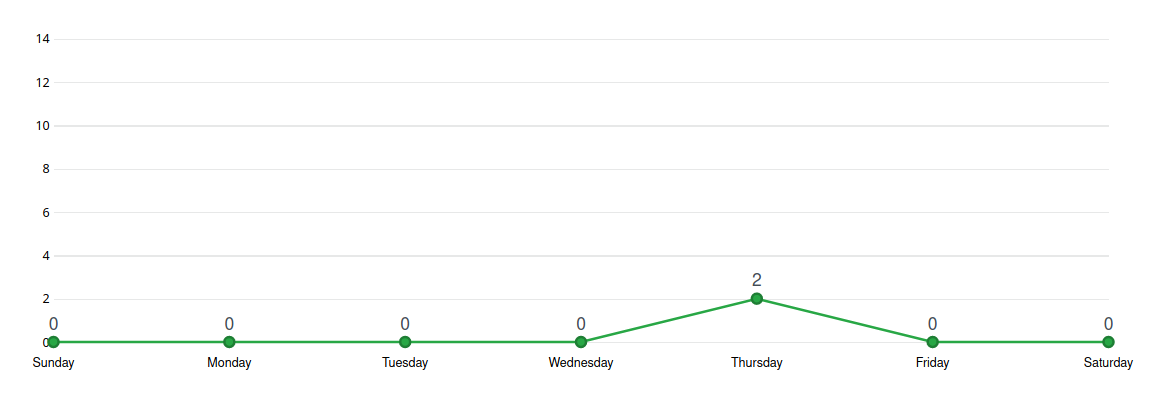
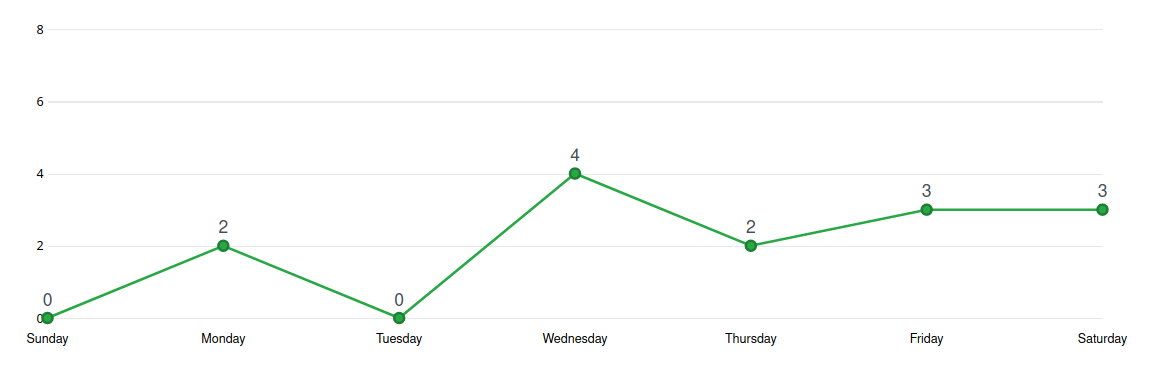
Fixed minor issues with sprint 6 docs.

diff --git a/docs/sprints/sprint-6/sprint6-risks.md b/docs/sprints/sprint-6/sprint6-risks.md
@@ -12,19 +12,19 @@ Os riscos estão ordenados por prioridade, que é resultado da multiplicação e
 **Consequência:** Dificuldade para reunir toda a equipe e realizar os pareamentos  
 **Ação Preventiva:** Elaboração de planilhas de controle de horários  
 **Ação Reativa:** Planejar os pareamentos e reuniões baseado na planilha de horários  
-**Probabilidade:** Média      
+**Probabilidade:** Alta        
 **Impacto:** Alto    
 **Prioridade:** Alta - 16  
 
-### R12 - Conflito de dependência entre atividades
-**Categoria:** Organizacional   
-**Causa:** Escopo razoavelmente complexo do projeto    
-**Consequência:** Atividade pausada esperando a conclusão de outra        
-**Ação Preventiva:** Planejar e priorizar as tarefas a longo prazo  
-**Ação Reativa:** Finalizar uma das tarefas o mais rápido possível para que a outra possa ser realizada  
-**Probabilidade:** Alto           
-**Impacto:** Alto       
-**Prioridade:** Alta - 16  
+### R07 - Conflito com outras disciplinas
+**Categoria:** Organizacional  
+**Causa:** Necessidade, sendo alunos da UnB os membros da equipe precisam cursar outras disciplinas para conclusão da graduação  
+**Consequência:** Atraso nas entregas ou entregas mal feitas  
+**Ação Preventiva:** Organizar os prazos e fazer um planejamento  
+**Ação Reativa:** Priorização das atividades  
+**Probabilidade:** Muito Alta      
+**Impacto:** Médio     
+**Prioridade:** Média - 15
 
 ### R08 - Descumprimento de alguma legislação
 **Categoria:** Gerência  
@@ -32,9 +32,19 @@ Os riscos estão ordenados por prioridade, que é resultado da multiplicação e
 **Consequência:** Cometer alguma ilegalidade  
 **Ação Preventiva:**  Fazer um estudo da legislação associada ao escopo do projeto  
 **Ação Reativa:**  Procurar apoio jurídico profissional  
-**Probabilidade:** Média     
+**Probabilidade:** Média        
 **Impacto:** Muito Alto      
 **Prioridade:** Média - 15 
+
+### R02 - Dificuldades da equipe com as novas tecnologias inseridas
+**Categoria:** Técnico  
+**Causa:** Inexperiência de alguns membros  
+**Consequência:** Surgimento de dívidas técnicas pela dificuldade em realizar os objetivos propostos  
+**Ação Preventiva:** Realização de treinamentos efetivos nas tecnologias a serem utilizadas ao longo do semestre      
+**Ação Reativa:** Organizar pareamento para rotação do conhecimento    
+**Probabilidade:** Média      
+**Impacto:** Alto  
+**Prioridade:** Média - 12
 
 ### R03 - Falta de comprometimento dos membros com o projeto
 **Categoria:** Gerência  
@@ -52,19 +62,29 @@ Os riscos estão ordenados por prioridade, que é resultado da multiplicação e
 **Consequência:** Capacidade de trabalho da equipe prejudicada e atrasos no cronograma  
 **Ação Preventiva:** Seguir as recomendações de prevenção da Organização Mundial da Saúde  
 **Ação Reativa:** Remanejamento das atividades e apoio ao(s) membro(s) afetado(s)  
-**Probabilidade:** Média     
+**Probabilidade:** Média    
 **Impacto:** Alto    
-**Prioridade:** Média - 12   
+**Prioridade:** Média - 12  
 
-### R07 - Conflito com outras disciplinas
-**Categoria:** Organizacional  
-**Causa:** Necessidade, sendo alunos da UnB os membros da equipe precisam cursar outras disciplinas para conclusão da graduação  
-**Consequência:** Atraso nas entregas ou entregas mal feitas  
-**Ação Preventiva:** Organizar os prazos e fazer um planejamento  
-**Ação Reativa:** Priorização das atividades  
-**Probabilidade:** Alta      
-**Impacto:** Médio     
+### R05 - Erros durante o planejamento das atividades
+**Categoria:** Gerência  
+**Causa:** Falta de experiência da equipe de gerência  
+**Consequência:** Trabalho mal distribuído entre os membros da equipe  
+**Ação Preventiva:** Conhecer bem a capacidade da equipe e as necessidades do projeto   
+**Ação Reativa:**  Avaliar as métricas do projeto para regular os próximos planejamentos  
+**Probabilidade:** Média     
+**Impacto:** Alto      
 **Prioridade:** Média - 12
+
+### R17 - Problemas com a estação de trabalho 
+**Categoria:** Técnico  
+**Causa:** Falta de acesso a uma boa internet e/ou a um computador funcionando  
+**Consequência:** Capacidade de trabalho da equipe prejudicada e atrasos no cronograma  
+**Ação Preventiva:** -  
+**Ação Reativa:**  Remanejamento das atividades e revisão do cronograma  
+**Probabilidade:** Média        
+**Impacto:** Alto      
+**Prioridade:** Média - 12  
 
 ### R10 - Ausência de membros durante reuniões do grupo
 **Categoria:** Gerência   
@@ -76,15 +96,15 @@ Os riscos estão ordenados por prioridade, que é resultado da multiplicação e
 **Impacto:** Médio     
 **Prioridade:** Média - 12 
 
-### R15 - Dados deixarem de ser fornecidos pelas secretarias 
-**Categoria:** Externo  
-**Causa:** Decisões das secretarias  
-**Consequência:** Impossibilidade de atualização de uma funcionalidade importante do projeto  
-**Ação Preventiva:** -  
-**Ação Reativa:** Procurar outras fontes de dados ou deixar de fornecer a funcionalidade   
-**Probabilidade:** Baixa      
-**Impacto:** Muito Alto      
-**Prioridade:** Baixa - 10 
+### R12 - Conflito de dependência entre atividades 
+**Categoria:** Organizacional   
+**Causa:** Escopo razoavelmente complexo do projeto    
+**Consequência:** Atividade pausada esperando a conclusão de outra        
+**Ação Preventiva:** Planejar e priorizar as tarefas a longo prazo  
+**Ação Reativa:** Finalizar uma das tarefas o mais rápido possível para que a outra possa ser realizada  
+**Probabilidade:** Média             
+**Impacto:** Alto       
+**Prioridade:** Média - 12      
 
 ### R14 - Desistência da disciplina 
 **Categoria:** Gerência  
@@ -96,25 +116,25 @@ Os riscos estão ordenados por prioridade, que é resultado da multiplicação e
 **Impacto:** Muito Alto    
 **Prioridade:** Baixa - 10  
 
-### R05 - Erros durante o planejamento das atividades
-**Categoria:** Gerência  
-**Causa:** Falta de experiência da equipe de gerência  
-**Consequência:** Trabalho mal distribuído entre os membros da equipe  
-**Ação Preventiva:** Conhecer bem a capacidade da equipe e as necessidades do projeto   
-**Ação Reativa:**  Avaliar as métricas do projeto para regular os próximos planejamentos  
-**Probabilidade:** Média     
-**Impacto:** Médio        
-**Prioridade:** Baixa - 9
+### R15 - Dados deixarem de ser fornecidos pelas secretarias 
+**Categoria:** Externo  
+**Causa:** Decisões das secretarias  
+**Consequência:** Impossibilidade de atualização de uma funcionalidade importante do projeto  
+**Ação Preventiva:** -  
+**Ação Reativa:** Procurar outras fontes de dados ou deixar de fornecer a funcionalidade   
+**Probabilidade:** Baixa      
+**Impacto:** Muito Alto      
+**Prioridade:** Baixa - 10   
 
-### R06 - Falta de foco dos membros nas reuniões  
+### R06 - Falta de foco dos membros nas reuniões 
 **Categoria:** Gerência   
 **Causa:** Diversas distrações em um contexto de reuniões remotas e a falta de socialização em tempos de pandemia  
 **Consequência:** Reuniões longas e com poucos resultados       
 **Ação Preventiva:** Criar timebox para os tópicos da reunião e permanecer nos assuntos que são de interesse geral   
 **Ação Reativa:** Mudar a maneira como a reunião é conduzida de forma a deixá-la mais despojada sem perder o foco na produtividade  
-**Probabilidade:** Média           
+**Probabilidade:** Média          
 **Impacto:** Médio          
-**Prioridade:** Baixa - 9  
+**Prioridade:** Baixa - 9   
 
 ### R11 - Falta de direcionamento por não possuir cliente real
 **Categoria:** Externo   
@@ -122,29 +142,9 @@ Os riscos estão ordenados por prioridade, que é resultado da multiplicação e
 **Consequência:** Produto desenvolvido carece de realidade            
 **Ação Preventiva:** Ter uma ótima noção do produto antes de começar seu desenvolvimento    
 **Ação Reativa:** Repensar o produto e alinhar nova visão com a equipe    
-**Probabilidade:** Baixa           
+**Probabilidade:** Baixa            
 **Impacto:** Alto      
 **Prioridade:** Baixa - 8   
-
-### R02 - Dificuldades da equipe com as novas tecnologias inseridas
-**Categoria:** Técnico  
-**Causa:** Inexperiência de alguns membros  
-**Consequência:** Surgimento de dívidas técnicas pela dificuldade em realizar os objetivos propostos  
-**Ação Preventiva:** Realização de treinamentos efetivos nas tecnologias a serem utilizadas ao longo do semestre      
-**Ação Reativa:** Organizar pareamento para rotação do conhecimento    
-**Probabilidade:** Baixa     
-**Impacto:** Alto  
-**Prioridade:** Baixo - 8
-    
-### R13 - Falta de gratuidade do Google Maps
-**Categoria:** Externa  
-**Causa:** Políticas da Google  
-**Consequência:** Atraso nas funcionalidades que usam exibição de mapas  
-**Ação Preventiva:** Fazer essas funcionalidades de forma que sejam fáceis de integrar com outra api de mapa  
-**Ação Reativa:** Procurar outras alternativas gratuitas de uso de mapas  
-**Probabilidade:** Baixa    
-**Impacto:** Alto    
-**Prioridade:** Baixa - 8       
 
 ### R16 - Falta de interação entre a equipe 
 **Categoria:** Gerência  
@@ -154,19 +154,19 @@ Os riscos estão ordenados por prioridade, que é resultado da multiplicação e
 **Ação Reativa:** Chamar os membros pra alguma atividade divertida fora do contexto da disciplina  
 **Probabilidade:** Baixa                
 **Impacto:** Alto    
-**Prioridade:** Baixa - 8    
+**Prioridade:** Baixa - 8 
 
-### R17 - Problemas com a estação de trabalho
-**Categoria:** Técnico  
-**Causa:** Falta de acesso a uma boa internet e/ou a um computador funcionando  
-**Consequência:** Capacidade de trabalho da equipe prejudicada e atrasos no cronograma  
-**Ação Preventiva:** -  
-**Ação Reativa:**  Remanejamento das atividades e revisão do cronograma  
-**Probabilidade:** Baixa      
-**Impacto:** Alto      
-**Prioridade:** Baixa - 8  
+### R13 - Falta de gratuidade do Google Maps
+**Categoria:** Externa  
+**Causa:** Políticas da Google  
+**Consequência:** Atraso nas funcionalidades que usam exibição de mapas  
+**Ação Preventiva:** Fazer essas funcionalidades de forma que sejam fáceis de integrar com outra api de mapa  
+**Ação Reativa:** Procurar outras alternativas gratuitas de uso de mapas  
+**Probabilidade:** Baixa     
+**Impacto:** Alto    
+**Prioridade:** Baixa - 8   
 
-### R18 - Alteração das tecnologias 
+### R18 - Alteração das tecnologias
 **Categoria:** Técnico    
 **Causa:** Tecnologia previamente escolhida não consegue suprir as necessidades do projeto  
 **Consequência:** Refatorar tudo o que foi feito na nova linguagem/framework escolhido    
@@ -174,7 +174,7 @@ Os riscos estão ordenados por prioridade, que é resultado da multiplicação e
 **Ação Reativa:** Incluir todos os membros na refatoração para que ela seja executada o mais rápido possivel  
 **Probabilidade:** Muito Baixa    
 **Impacto:** Muito Alto    
-**Prioridade:** Muito Baixa - 5  
+**Prioridade:** Muito Baixa - 5   
 
 ### R09 - Alteração do escopo
 **Categoria:** Gerência  
@@ -184,4 +184,4 @@ Os riscos estão ordenados por prioridade, que é resultado da multiplicação e
 **Ação Reativa:** Redefinir o escopo e redistribuir tarefas  
 **Probabilidade:** Muito Baixa       
 **Impacto:** Alto    
-**Prioridade:** Muito Baixa - 4   
+**Prioridade:** Baixa - 4   

diff --git a/docs/sprints/sprint-6/sprint6-review.md b/docs/sprints/sprint-6/sprint6-review.md
@@ -8,10 +8,10 @@
 **Pontos Planejados:** 47 pontos  
 **Pontos Entregues:** 31 pontos  
 **Dívida Técnica:** 16 pontos  
-**Membros Presentes:** Todos
+**Membros Ausentes:** Luiz Pettengill
 
 ## 2. Resultados
-### 4.1 Repositório Docs
+### 2.1 Repositório Docs
 1. **História:** [#60 - Documentar Metodologia](https://github.com/fga-eps-mds/2020.1-stay-safe-docs/issues/60)    
 **Responsáveis:** Renan     
 **Pontuação:** 3  
@@ -33,7 +33,7 @@
 **Pontuação:** 3      
 **Status:** Concluído    
 
-### 4.2 Repositório Frontend
+### 2.2 Repositório Frontend
 1. **História:** [#21 - Associar ocorrência a uma localização no mapa](https://github.com/fga-eps-mds/2020.1-stay-safe-front-end/issues/21)    
 **Responsáveis:** Lucas e Hérick  
 **Pontuação:** 5   
@@ -51,13 +51,13 @@
 **Pontuação:** 1     
 **Status:** Concluído    
 
-### 4.3 Repositório User-Service
+### 2.3 Repositório User-Service
 1. **História:** [#25 - Configurar CI](https://github.com/fga-eps-mds/2020.1-stay-safe-user-service/issues/25)    
 **Responsáveis:** Rossicler    
 **Pontuação:** 2  
 **Status:** Concluído    
 
-### 4.4 Repositório Secretary-Service
+### 2.4 Repositório Secretary-Service
 1. **História:** [#20 - Configurar CI](https://github.com/fga-eps-mds/2020.1-stay-safe-secretary-service/issues/20)    
 **Responsáveis:** Rossicler    
 **Pontuação:** 2   
@@ -76,16 +76,16 @@
 ## 5. Gráfico de Contribuições
 
 ### 5.1 Contribuições na Documentação
-![Histórico de Contribuição Documentação](../../images/sprints/sprint-5/ContributionGraph-Docs.png "Histórico de Contribuição Documentação")
+![Histórico de Contribuição Documentação](../../images/sprints/sprint-6/ContributionGraph-Docs.png "Histórico de Contribuição Documentação")
 
 ### 5.2 Contribuições no Frontend
-![Histórico de Contribuição Frontend](../../images/sprints/sprint-5/ContributionGraph-Frontend.png "Histórico de Contribuição Frontend")
+![Histórico de Contribuição Frontend](../../images/sprints/sprint-6/ContributionGraph-Frontend.png "Histórico de Contribuição Frontend")
 
 ### 5.3 Contribuições no User-Service
-![Histórico de Contribuição User-Service](../../images/sprints/sprint-5/ContributionGraph-User.png "Histórico de Contribuição User-Service")
+![Histórico de Contribuição User-Service](../../images/sprints/sprint-6/ContributionGraph-User.png "Histórico de Contribuição User-Service")
 
 ### 5.4 Contribuições no Secretary-Service
-![Histórico de Contribuição Secretary-Service](../../images/sprints/sprint-5/ContributionGraph-Secretary.png "Histórico de Contribuição Secretary-Service")
+![Histórico de Contribuição Secretary-Service](../../images/sprints/sprint-6/ContributionGraph-Secretary.png "Histórico de Contribuição Secretary-Service")
 
 ## 6. Retrospectiva
 ### Pontos Positivos
@@ -124,7 +124,7 @@ O **Burndown** da Sprint 6 mostra que a maioria das tarefas foi concluída no ú
 
 Os **Históricos de Contribuição** apresentam uma quantidade grande de commits no meio da sprint, que é o comportamento esperado, o único ponto a ser melhorado é evitar o pico de commits no último dia, que indica revisões e merges tardios. O que pudemos notar é que em vários PRs acabou faltando um review para aprovação (dos dois necessários) e maioria dos merges foi feito no último dia.
 
-O **Quadro de Conhecimento** mostra evolução principalmente nos dois membros responsáveis por realizar a funcionalidade do cadastro de ocorrência, que foi a primeira experiência de frontend deles neste projeto.
+O **Quadro de Conhecimento** está começando a mostrar evoluções mais lentas agora que os membros estão acostumados a usar as tecnologias em questão.
 
 ### Histórias
 A issue de frontend **Visualização das cidades por mapas de calor** foi um grande desafio na sprint, um dos membros executores teve problemas de ambiente. A previsão é que ela seja finalizada no início da próxima sprint. As outras duas issues de frontend eram mais simples e saíram sem dificuldades.

diff --git a/docs/sprints/sprint-1/sprint1-review.md b/docs/sprints/sprint-1/sprint1-review.md
@@ -59,7 +59,7 @@
 ![Burndown Sprint 1](../../images/sprints/sprint-1/Burndown-Sprint1.png "Burndown Sprint 1")
 
 ## 5. Gráfico de Contribuições
-![Commit History Sprint 1](../../images/sprints/sprint-1/Commit-Sprint1.png "Commit History Sprint 1")
+![Commit History Sprint 1](../../images/sprints/sprint-1/Contribution-Docs.png "Commit History Sprint 1")
 
 ## 6. Retrospectiva
 ### Pontos Positivos:

diff --git a/docs/sprints/sprint-6/sprint6-planning.md b/docs/sprints/sprint-6/sprint6-planning.md
@@ -8,7 +8,7 @@
 **Pontos Planejados:** 47 pontos  
 **Dívida Técnica:** 0 pontos  
 **Pontos Totais:** 47 pontos  
-**Membros Presentes:** Todos
+**Membros Ausentes:** Luiz Pettengill
 
 ## 2. Papéis
 * **Arquiteta:** Sara Silva
